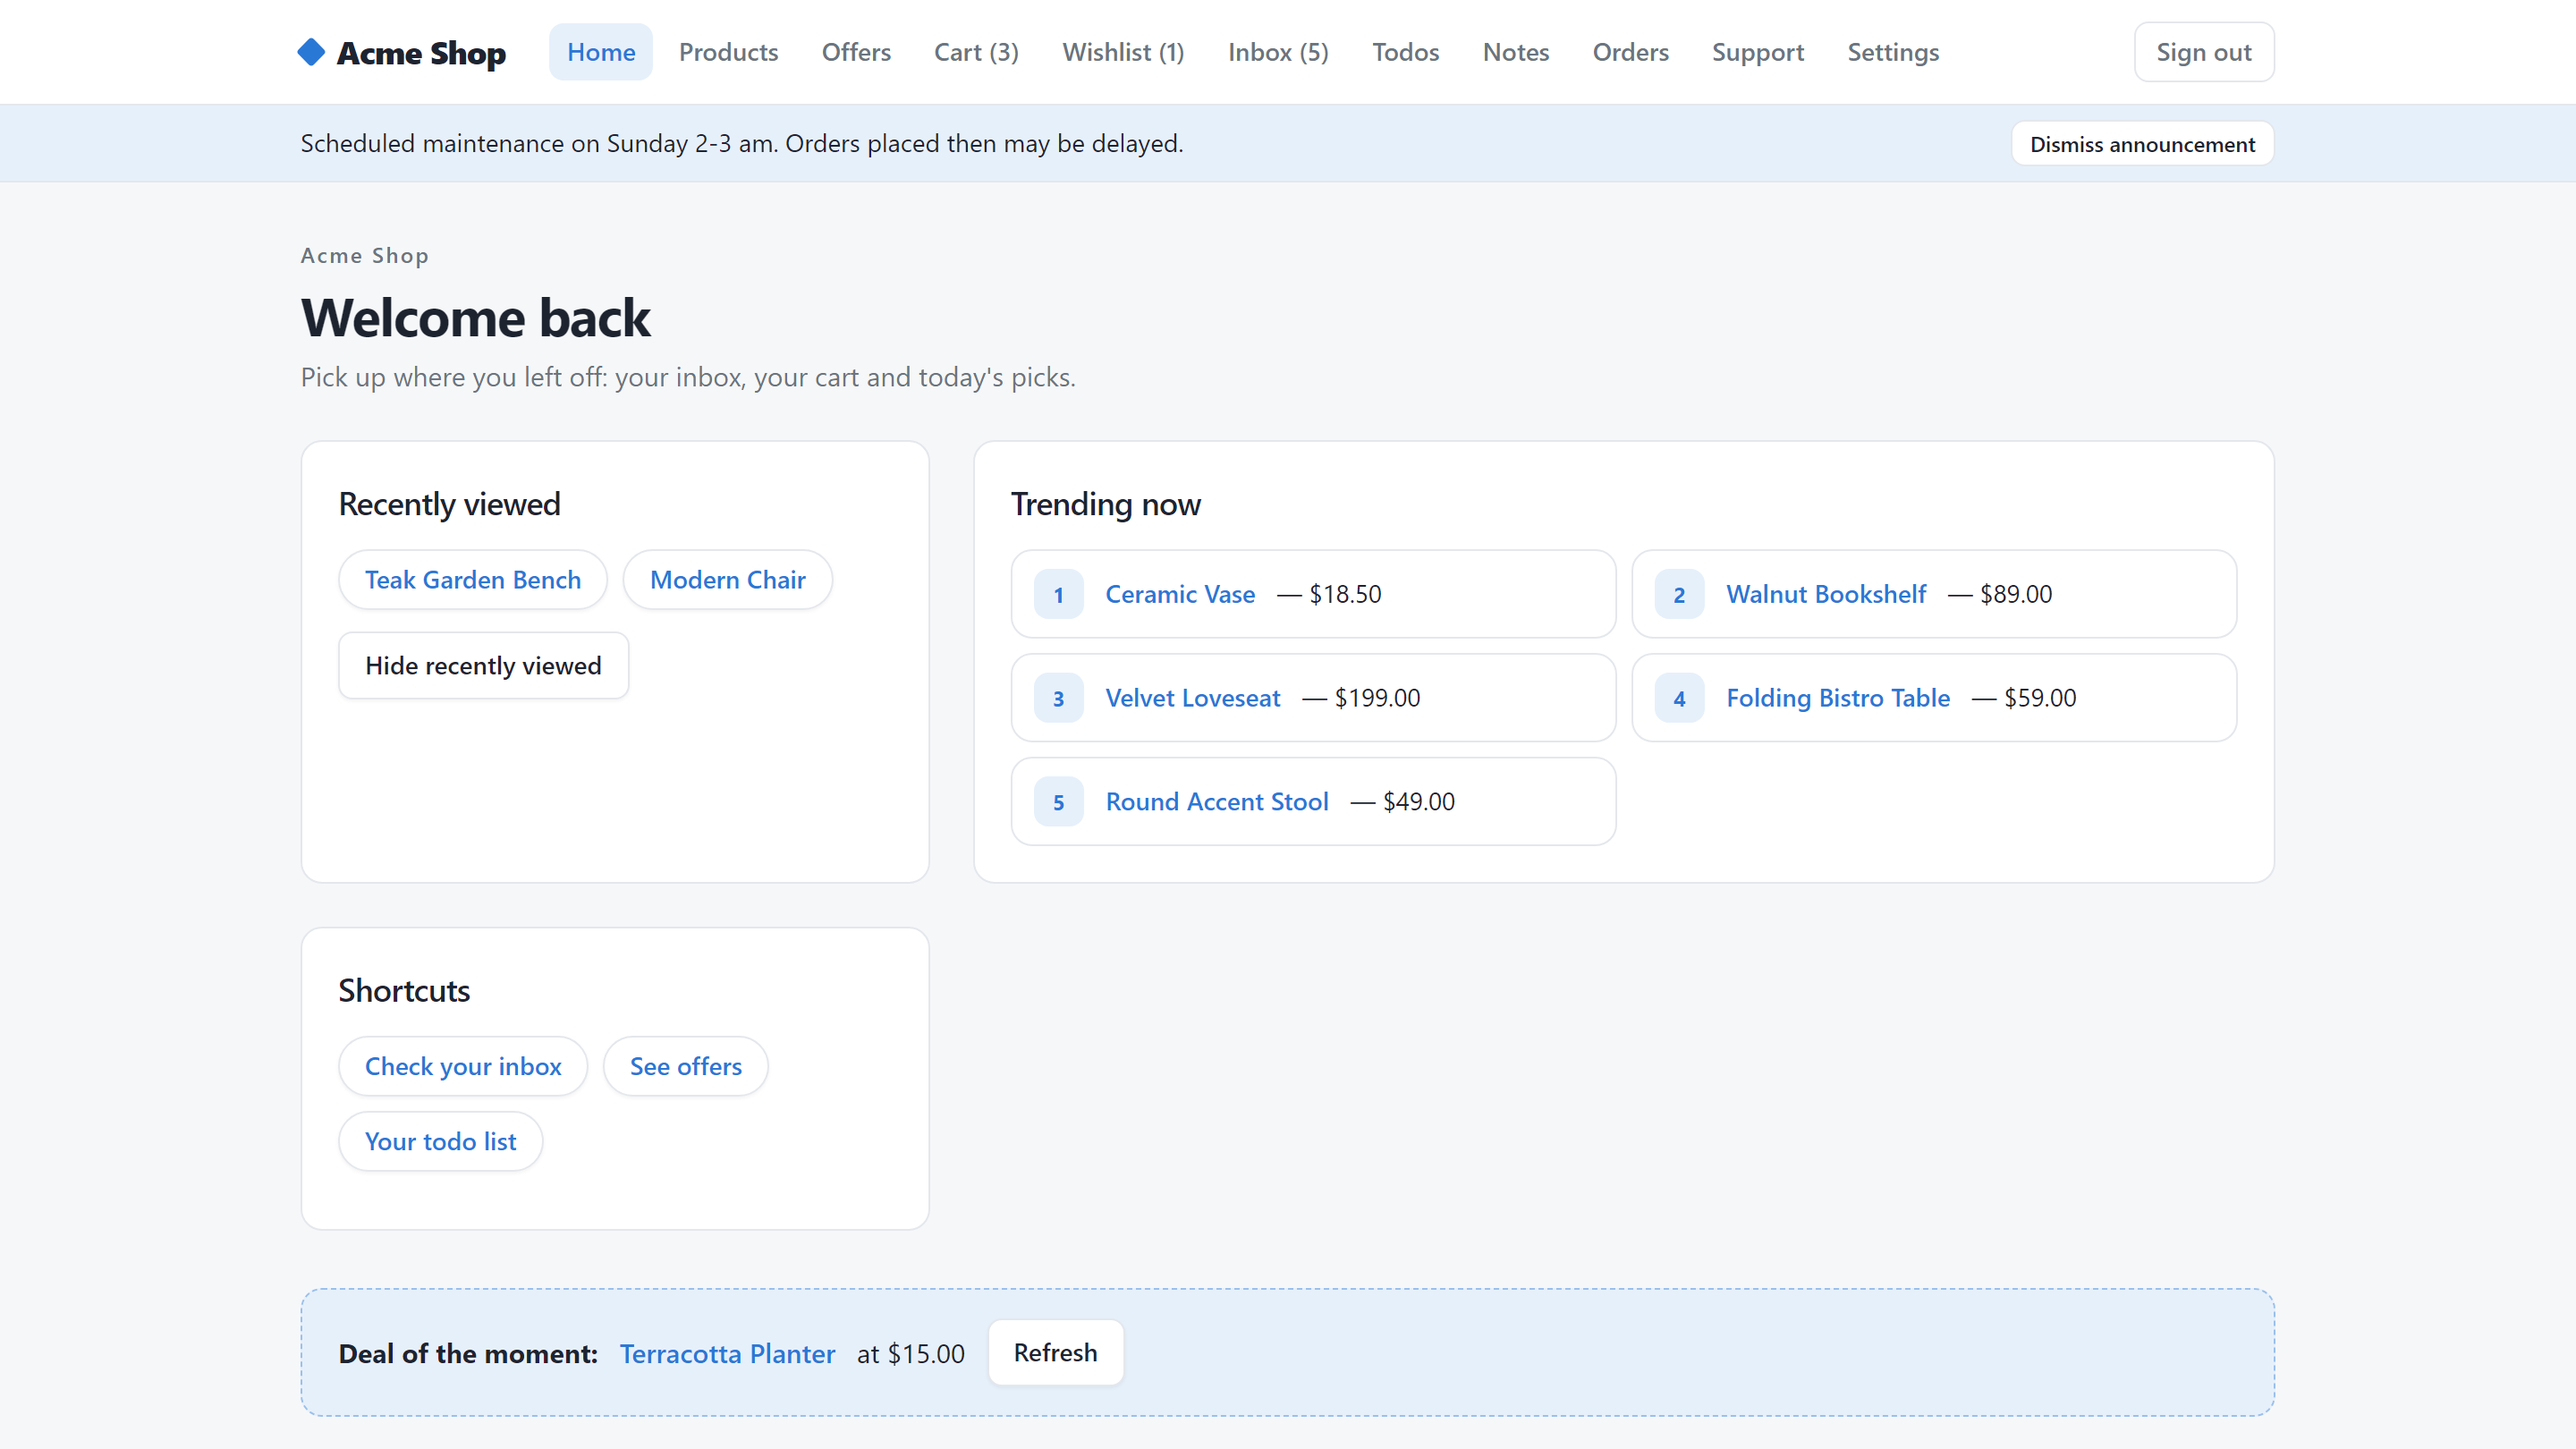
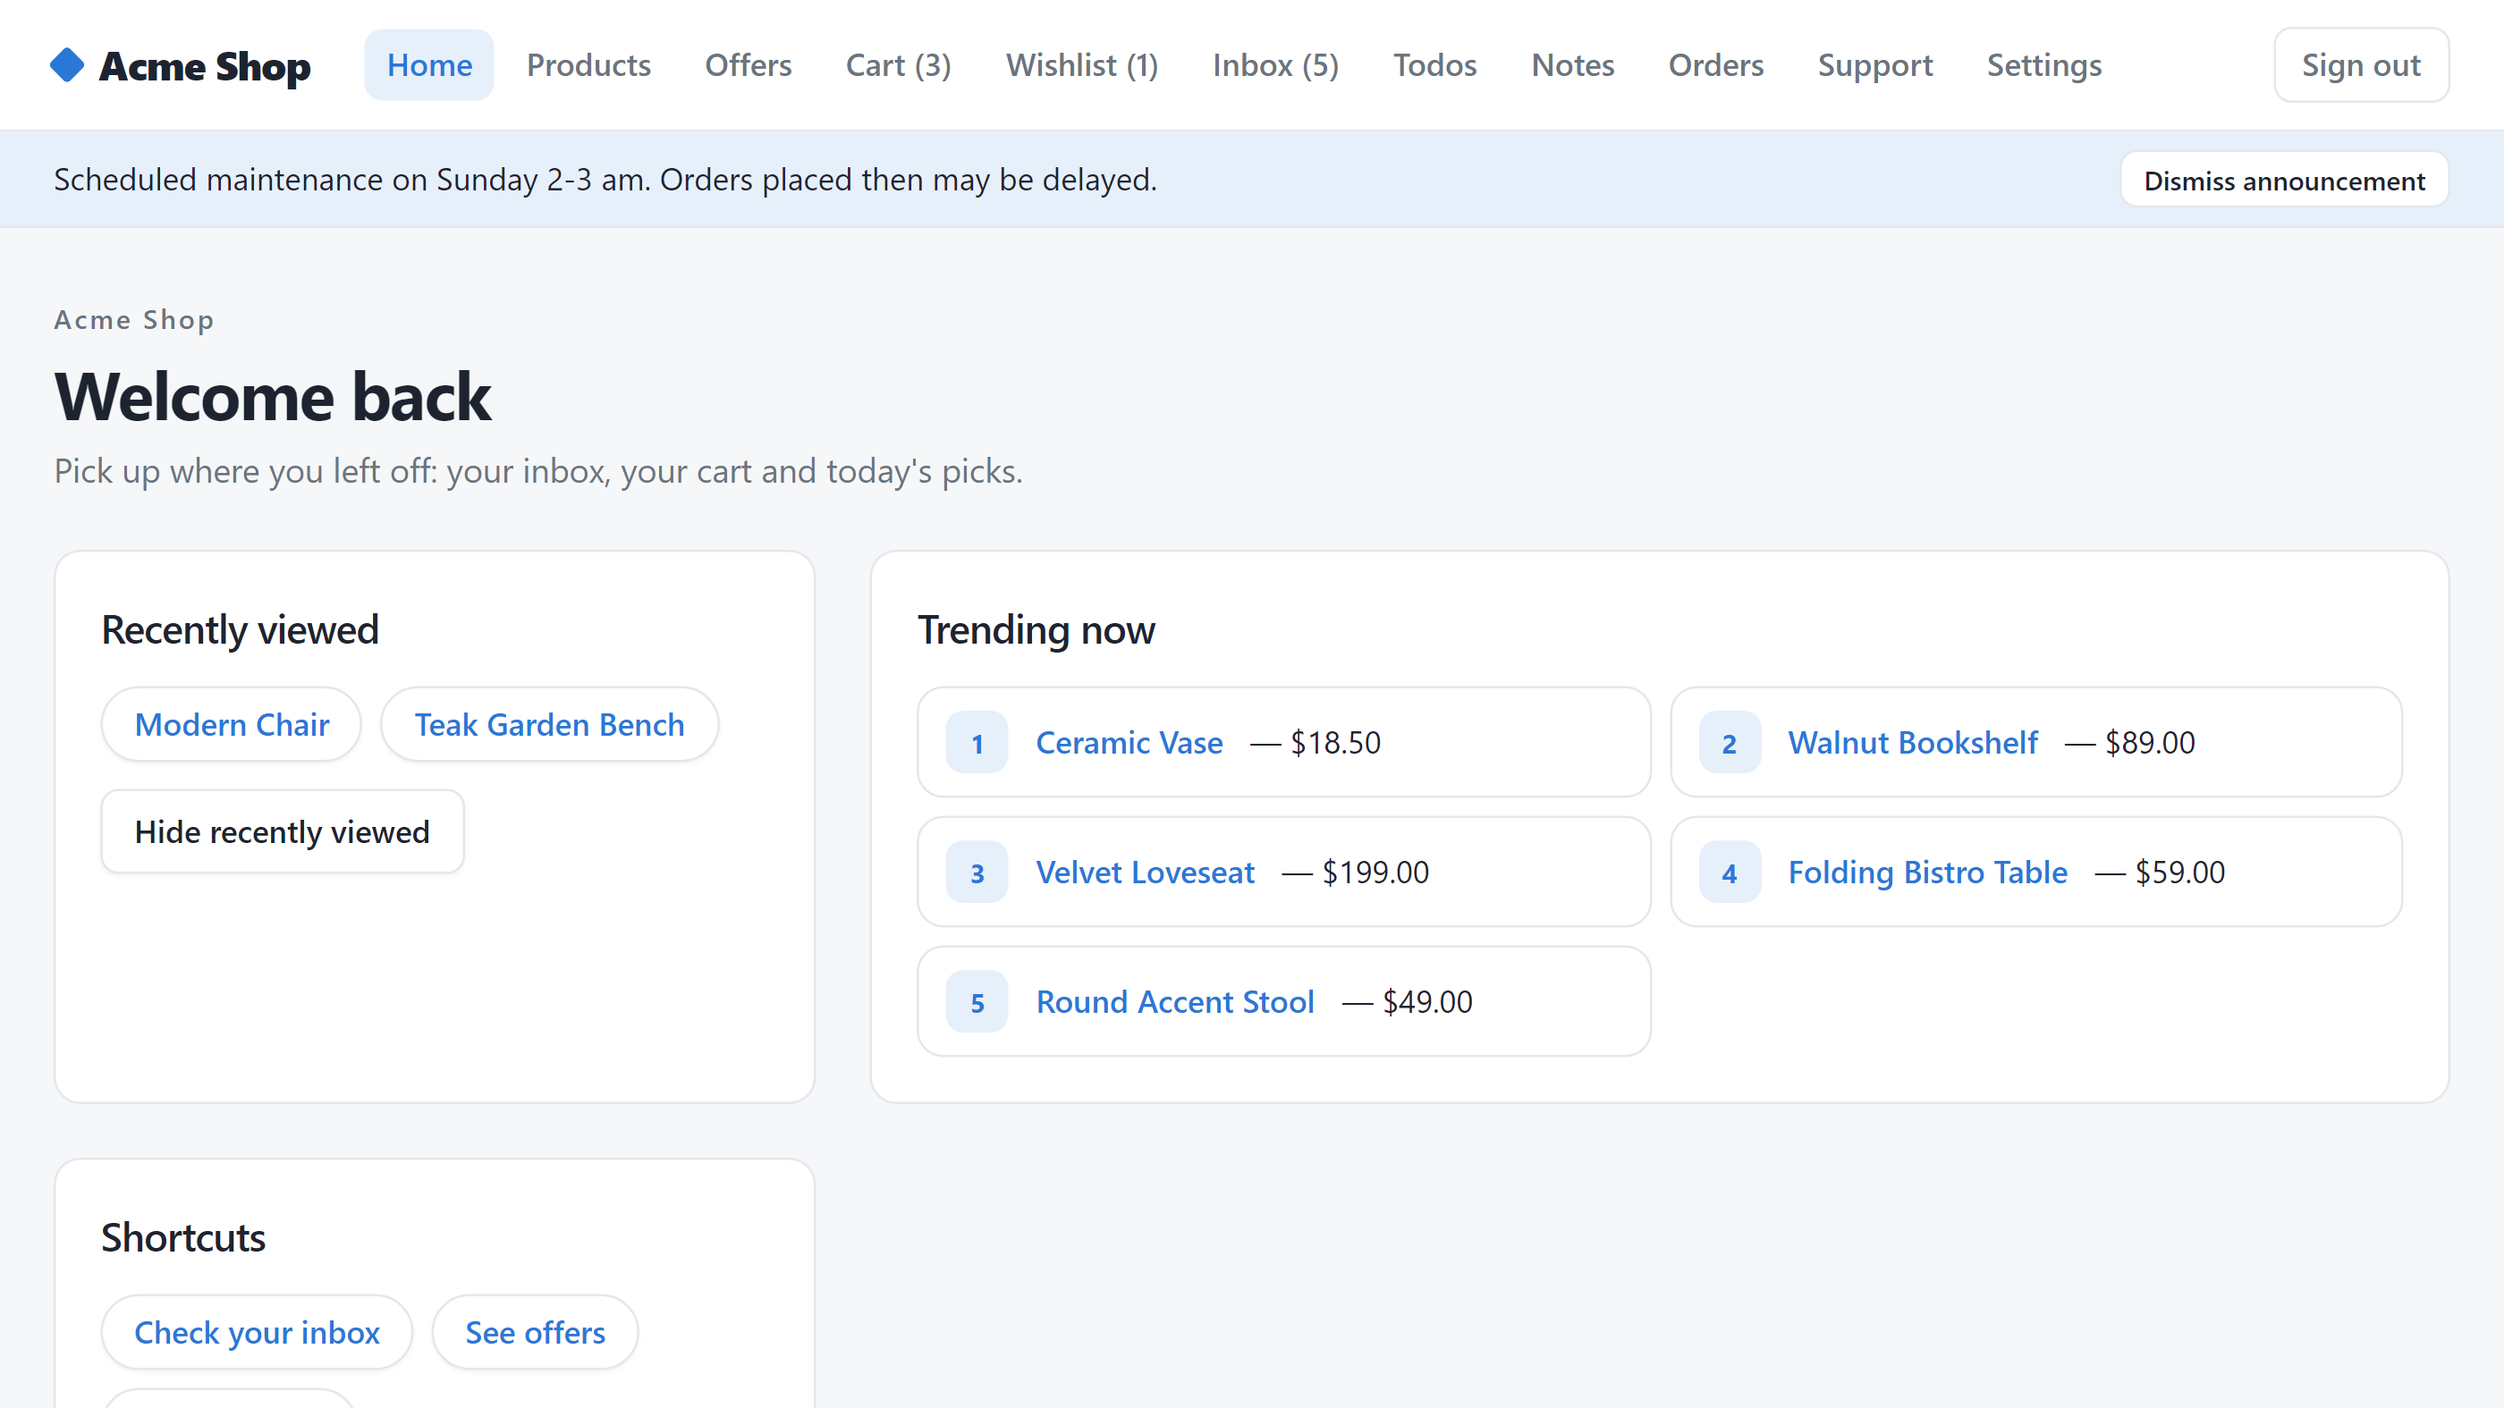
Show four WebReplayBench screenshots in a carousel

diff --git a/index.html b/index.html
@@ -425,6 +425,15 @@
     .shot .bar i { width: 10px; height: 10px; border-radius: 50%; display: inline-block; }
     .shot .bar span { margin-left: 8px; color: var(--muted); font: 12px "JetBrains Mono", monospace; }
     .shot img { display: block; width: 100%; }
+    .shot .bar .nav { margin-left: auto; display: flex; gap: 4px; }
+    .shot .bar button { width: 24px; height: 24px; display: grid; place-items: center; border: 1px solid var(--line); border-radius: 6px; background: var(--surface); color: var(--text-2); cursor: pointer; font-size: 11px; }
+    .shot .bar button:hover { color: var(--accent); border-color: var(--accent); }
+    .slides { display: flex; overflow-x: auto; scroll-snap-type: x mandatory; scroll-behavior: smooth; scrollbar-width: none; }
+    .slides::-webkit-scrollbar { display: none; }
+    .slides img { flex: 0 0 100%; scroll-snap-align: start; }
+    .dots { display: flex; justify-content: center; gap: 6px; padding: 8px 0 9px; background: var(--surface-2); border-top: 1px solid var(--line); }
+    .dots button { width: 7px; height: 7px; padding: 0; border: 0; border-radius: 50%; background: var(--line); cursor: pointer; transition: width .2s, background .2s; }
+    .dots button.on { width: 20px; border-radius: 4px; background: var(--accent); }
 
 
     .codeblock { position: relative; background: var(--code-bg); color: var(--code-text); border-radius: 12px; border: 1px solid #1f2a38; }
@@ -695,8 +704,17 @@
           </ul>
           <p style="margin-top:12px"><a href="https://github.com/mahirlabibdihan/WebReplayBench"><i class="fa-brands fa-github"></i> mahirlabibdihan/WebReplayBench</a></p>
         </div>
-        <div class="shot"><div class="bar"><i style="background:#ff5f57"></i><i style="background:#febc2e"></i><i style="background:#28c840"></i><span>webreplaybench</span></div>
-          <img src="assets/webreplaybench_home.png" alt="The WebReplayBench website" loading="lazy" /></div>
+        <div class="shot" id="wrb-shots">
+          <div class="bar"><i style="background:#ff5f57"></i><i style="background:#febc2e"></i><i style="background:#28c840"></i><span id="wrb-url">acme-shop.example/</span>
+            <div class="nav"><button type="button" data-step="-1" aria-label="Previous screenshot"><i class="fa-solid fa-chevron-left"></i></button><button type="button" data-step="1" aria-label="Next screenshot"><i class="fa-solid fa-chevron-right"></i></button></div></div>
+          <div class="slides">
+            <img src="assets/webreplaybench_home.png" alt="WebReplayBench home page" data-url="/" />
+            <img src="assets/webreplaybench_products.png" alt="WebReplayBench product list" data-url="/products" loading="lazy" />
+            <img src="assets/webreplaybench_product.png" alt="WebReplayBench product page" data-url="/products/1" loading="lazy" />
+            <img src="assets/webreplaybench_inbox.png" alt="WebReplayBench inbox" data-url="/inbox" loading="lazy" />
+          </div>
+          <div class="dots"></div>
+        </div>
       </div>
       <div class="grid2">
         <div class="panel">
@@ -1494,6 +1512,34 @@ $$(".copy").forEach((b) => b.addEventListener("click", async () => {
 }));
 renderAuthors(); initTheme(); initHero();
 drawWA(); drawBudget(); drawRuntime(); drawAbl(); drawBT(); drawGen(); drawReplay(); drawDetect();
+
+/* WebReplayBench screenshots: arrows, dots and swipe over a scroll-snapping strip. */
+(() => {
+  const box = document.getElementById("wrb-shots");
+  if (!box) return;
+  const strip = box.querySelector(".slides"), imgs = [...strip.children], dots = box.querySelector(".dots"), url = document.getElementById("wrb-url");
+  let cur = 0, lock = 0;
+  imgs.forEach((im, i) => {
+    const b = document.createElement("button");
+    b.type = "button"; b.setAttribute("aria-label", im.alt);
+    b.onclick = () => go(i);
+    dots.appendChild(b);
+  });
+  const show = (i) => {
+    cur = i;
+    [...dots.children].forEach((d, j) => d.classList.toggle("on", j === i));
+    url.textContent = "acme-shop.example" + imgs[i].dataset.url;
+  };
+  // While a button scrolls the strip, ignore the intermediate positions it passes through.
+  const go = (i) => { i = (i + imgs.length) % imgs.length; clearTimeout(lock); lock = setTimeout(() => (lock = 0), 600); strip.scrollTo({ left: i * strip.clientWidth }); show(i); };
+  box.querySelectorAll(".bar button").forEach((b) => (b.onclick = () => go(cur + +b.dataset.step)));
+  strip.addEventListener("scroll", () => {
+    if (lock) return;
+    const i = Math.round(strip.scrollLeft / strip.clientWidth);
+    if (i !== cur) show(i);
+  }, { passive: true });
+  show(0);
+})();
 </script>
 </body>
 </html>
